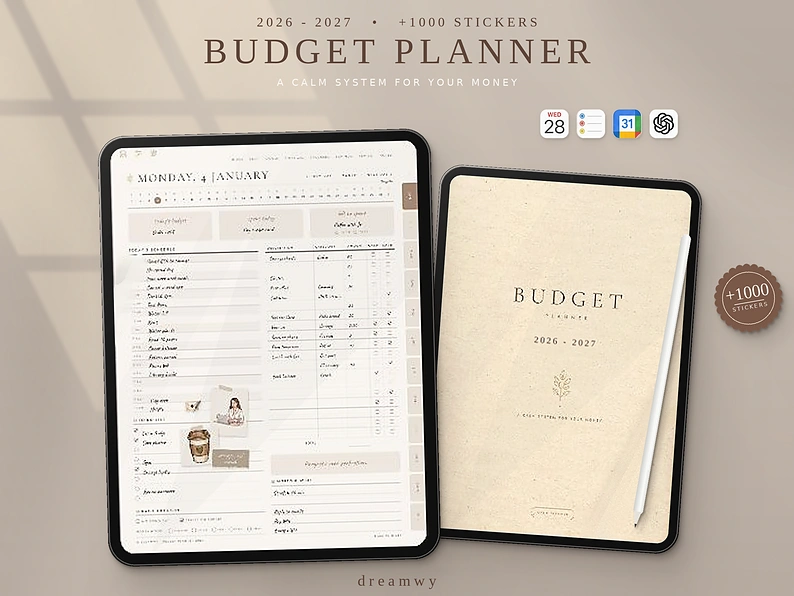
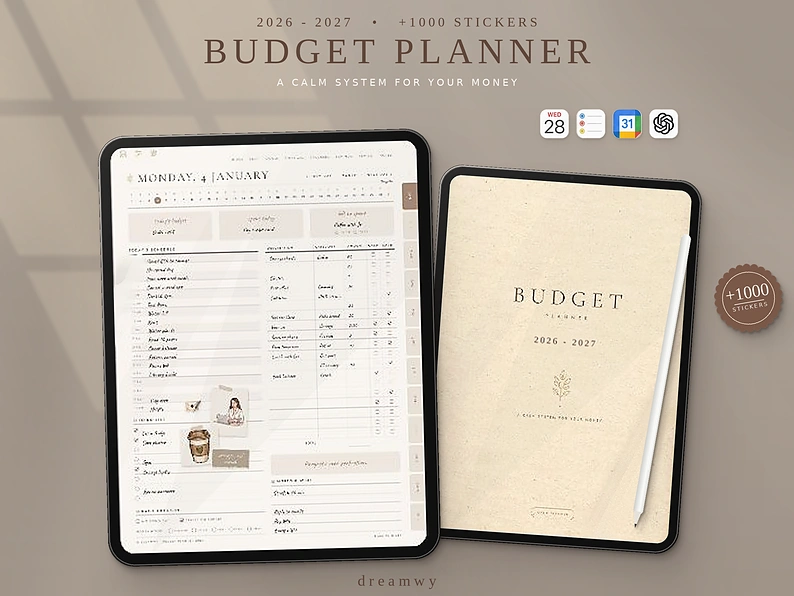
Budget mockup: slightly darker background
Claude-Session: https://claude.ai/code/session_015ZGVvYxuW9E1f2kNKHXQzt

diff --git a/mockup/make_budget_mockup.py b/mockup/make_budget_mockup.py
@@ -159,6 +159,9 @@ haze = Image.linear_gradient("L").resize((W, H)).point(lambda v: 255 - int(v * .
 rays = ImageChops.multiply(rays, haze)
 canvas = Image.composite(Image.new("RGBA", (W, H), (255, 238, 210, 255)), canvas, rays.point(lambda v: int(v * .22)))
 
+# a touch darker overall (background only: the tablets are placed after this)
+canvas = ImageChops.multiply(canvas.convert("RGB"), Image.new("RGB", (W, H), (222, 220, 218))).convert("RGBA")
+
 
 def spaced(draw, xy, text, font, fill, tracking, anchor_center=True):
     widths = [draw.textlength(c, font=font) for c in text]
